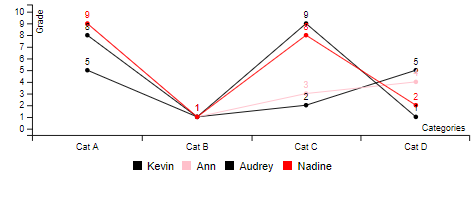
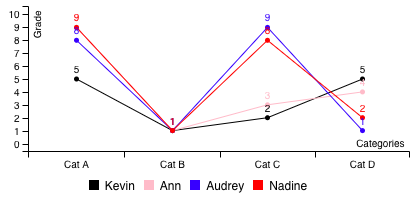
update chartPopulateLineData

diff --git a/document/function/Chart/chartPopulateLineData/chartPopulateLineData.md b/document/function/Chart/chartPopulateLineData/chartPopulateLineData.md
@@ -1,4 +1,4 @@
-# chartPopulateLineData
+# chartPopulateLineData
 
 ### Description
 
@@ -14,14 +14,14 @@ A line chart is a type of chart which displays information as a series of data p
 | ------ | ------ | ------ |------ | ------ |
 | 1 | component | The name of the component that the details will be taken from. | String | Yes |
 | 2 | componentId | The id of the component that the details will be taken from. | String | No |
-| 3 | dataCaptions | dataCaptions | Array | Yes |
+| 3 | dataCaptions | dataCaptions | Array | No |
 | 4 | data | Number | Array | Yes |
-| 5 | dataColors | dataColors | Array | Yes |
-| 6 | xCategories | X-Axis category | Array | Yes |
-| 7 | yCaption | Y-Axis | String | Yes |
-| 8 | xCaption | X-Axis | String | Yes |
-| 9 | showLabel | True or false | Boolean | Yes |
-| 10 | zoom | True or false | Boolean | Yes |
+| 5 | dataColors | dataColors | Array | No |
+| 6 | xCategories | X-Axis category | Array | No |
+| 7 | yCaption | Y-Axis | String | No |
+| 8 | xCaption | X-Axis | String | No |
+| 9 | showLabel | True or false | Boolean | No |
+| 10 | zoom | True or false | Boolean | No |
 
 ### Scenario / Use Case
 
@@ -29,7 +29,7 @@ The user wants to create a Line Chart.
 
 ### Step
 
-1. Call the function "chartPopulateLineData" and define the value for    component, dataCaptions, data, dataColors, xCategories, yCaption,    xCaption, showLabel and zoom.
+1. Call the function "chartPopulateLineData" and define the value for component, dataCaptions, data, dataColors, xCategories, yCaption, xCaption, showLabel and zoom.
    <br>
    <ul>
    <li>component: chData</li>
@@ -64,7 +64,7 @@ The user wants to create a Line Chart.
                            <ul>
                            <li>value1: BLACK </li>
                            <li>value2: PINK  </li>
-                           <li>value3: BLACK  </li>
+                           <li>value3: BLUE  </li>
                            <li>value4: RED </li> 
                            </ul>
                             
